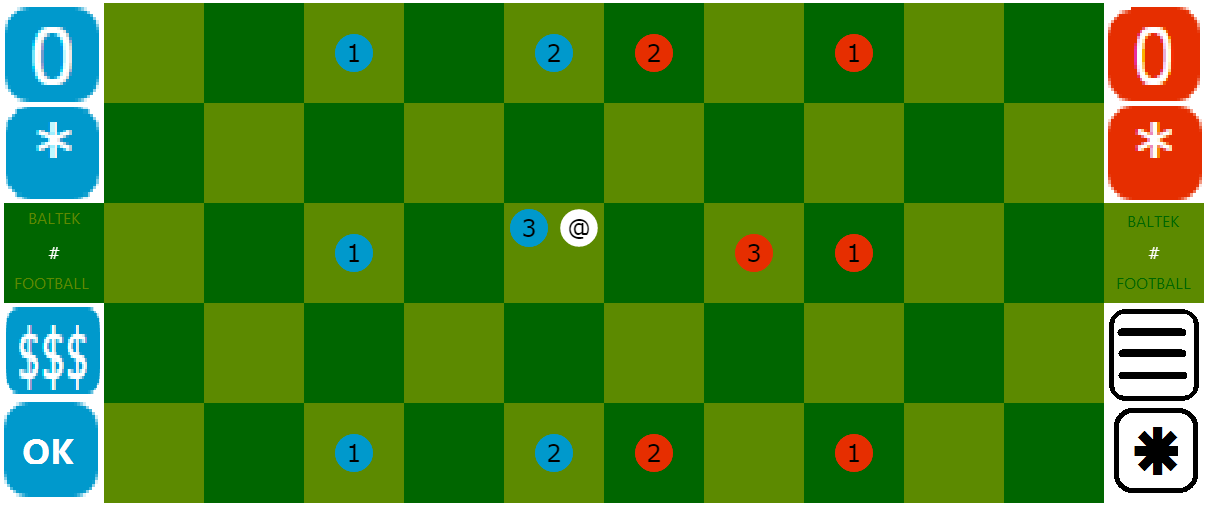
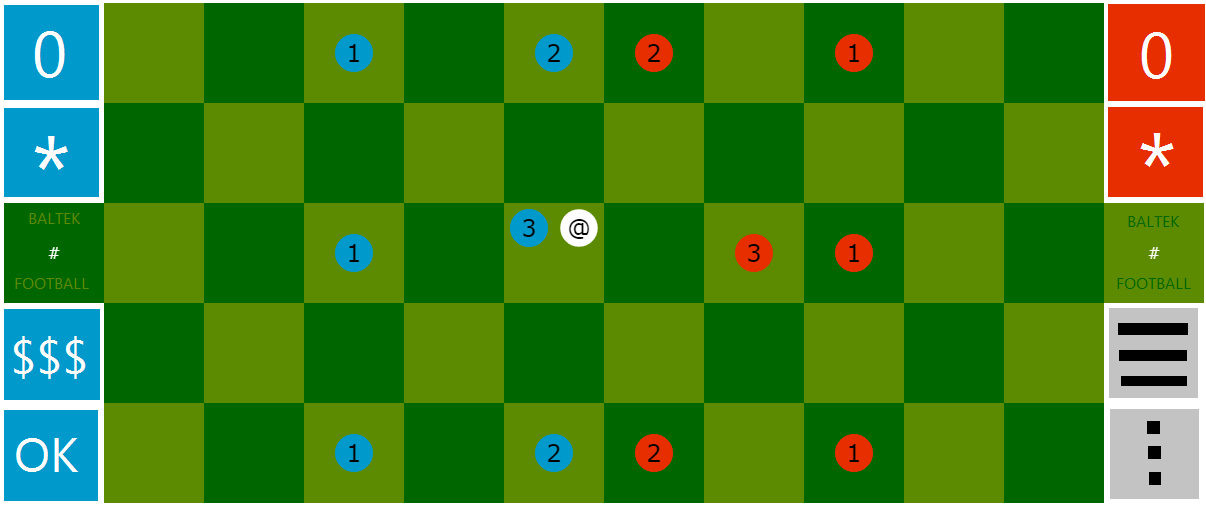
Design for smartphone; start English transltation

diff --git a/lang/en/Baltek-about-en.html b/lang/en/Baltek-about-en.html
@@ -1,51 +1,59 @@
 <!DOCTYPE html>
 <html lang="en">
-	<head>
-	    <meta charset="UTF-8">
-		<title>About Baltek</title>
-	</head>
 
-	<meta name="viewport" content="width=device-width, initial-scale=1">
-	<link rel="stylesheet" href="../../css/w3.css">
-	<link rel="stylesheet" href="../../css/baltek.css">
-	<body>
+    <head>
+        <meta charset="UTF-8">
+        <title>About BALTEK</title>
+    </head>
 
-<h1>Baltek, tactical soccer game</h1>
+    <meta name="viewport" content="width=device-width, initial-scale=1">
+    <link rel="stylesheet" href="../../css/w3.css">
+    <link rel="stylesheet" href="../../css/baltek.css">
 
-<p>"Baltek" is a soccer strategy game, turn based, obeying the following principles:</p>
+    <body>
 
-    <ul>
-        <li>Board game with a very few rules and equipment.</li>
+        <h1>BALTEK</h1>
+            <p>BALTEK is a turn-based football game.</p>
 
-        <li>No hazard involved in the turn.</li>
+        <h1>Configuration</h1>
 
-        <li>Multiple actions per turn.</li>
+            <ul>
+                <li>Version of the rules : 1.1</li>
+                <li>Version of the application HTML/Javascript : 0.0</li>
+            </ul>
 
-        <li>The ball moves faster than footballers.</li>
+        <h1>Copyright</h1>
 
-        <li>Coordination of players is essential.</li>
-    </ul>
+            <p><a href="http://creativecommons.org/licenses/by-sa/3.0/">
+              <img border=0 width=132 height=47 src="../../pictures/CC-BY-SA.gif" /></a></p>
 
-<p>The name of the game is inspired by the sounds of "ball" (BAL) and "tactical" (TK-TK).</p>
+            <p>This creation by Lucas Borboleta (
+            <a href="http://lucas.borboleta.blog.free.fr/">http://lucas.borboleta.blog.free.fr</a>)
+            - the rules document and the HTML / Javascript application - is made available under
+			the terms of the Creative Commons Attribution-ShareAlike 3.0 Unported License (<a
+            href="http://creativecommons.org/licenses/by-sa/3.0/">http://creativecommons.org/licenses/by-sa/3.0/</a>).</p>
 
 
-<h1>Configuration</h1>
+    <h1>Credits</h1>
 
-<ul>
-    <li>Version of rules: 1.0 (french document)</li>
-    <li>Version of HTML/Javascript application: 0.0</li>
-</ul>
+        <h2><a href="http://github.com/necolas/normalize.css/" target="_blank">normalize.css</a></h2>
+            <p>Copyright Nicolas Gallagher and Jonathan Neal.</p>
+            <p>MIT License.</p>
 
-<h1>Copyright</h1>
+        <h2><a href="http://javascriptissexy.com/" target="_blank">JavaScript.isSexy</a></h2>
+            <p>Copyright Richard.</p>
+            <p>No license found.</p>
 
-<p><a href="http://creativecommons.org/licenses/by-sa/3.0/">
-  <img border=0 width=132 height=47 src="../../pictures/CC-BY-SA.gif"></a>
-</p>
+            <p>JavaScript.isSexy is a blog on modern JavaScript and modern web application development.</p>
 
-<p>This work by Lucas Borboleta (
-<a href="http://lucas.borboleta.blog.free.fr/">http://lucas.borboleta.blog.free.fr</a>)
-– the rules document and the HTML/Javascript application – is licensed under
-a Creative Commons Attribution-ShareAlike 3.0 Unported License (<a
-href="http://creativecommons.org/licenses/by-sa/3.0/">http://creativecommons.org/licenses/by-sa/3.0/</a>).</p>
+            <p>Post of march. 19 2013:
+                <a href="http://javascriptissexy.com/oop-in-javascript-what-you-need-to-know/" target="_blank">
+                    OOP In JavaScript: What You NEED to Know</a>
+                    <em>(Object Oriented JavaScript: Only Two Techniques Matter)</em>.</p>
+
+            <h2><a href="http://www.w3schools.com/w3css/" target="_blank">w3.css</a></h2>
+                <p>4.04 Apr 2017 by Jan Egil and Borge Refsnes.</p>
+                <p>w3.css is free to use. No license is necessary.</p>
+
     </body>
 </html>

diff --git a/lang/en/Baltek-help-en.html b/lang/en/Baltek-help-en.html
@@ -1,15 +1,61 @@
 <!DOCTYPE html>
 <html lang="en">
-	<head>
-	    <meta charset="UTF-8">
-		<title>Baltek Help</title>
-	</head>
 
-	<meta name="viewport" content="width=device-width, initial-scale=1">
-	<link rel="stylesheet" href="../../css/w3.css">
-	<link rel="stylesheet" href="../../css/baltek.css">
-	<body>
-        <h1>Baltek Help</h1>
-        <p>TODO: to be written.</p>
-	</body>
+    <head>
+        <meta charset="UTF-8">
+        <title>BALTEK help</title>
+    </head>
+
+    <meta name="viewport" content="width=device-width, initial-scale=1">
+    <link rel="stylesheet" href="../../css/w3.css">
+    <link rel="stylesheet" href="../../css/baltek.css">
+
+    <body>
+
+        <h1>Interface</h1>
+            <p>Hereafter are a few breve explanations on how to play moves:</p>
+                <ul>
+                    <li><img src="../../pictures/scores-and-bonuses.png" />
+						display the scores and the availibility of the sprint bonuses
+                        for the two players.</li>
+
+                    <li><img src="../../pictures/credits.png" />
+                        displays the credits of the active player.</li>
+
+                    <li><img src="../../pictures/confirm-and-cancel-buttons.png" />
+                        confirms or cancels/reinitializes the turn of the active player.</li>
+
+                    <li><img src="../../pictures/sprint-button.png" />
+                        selects the sprint bonus.</li>
+
+                    <li>Unselect the selected footballer/ball prior
+                        to go on for a new selection.</li>
+                </ul>
+
+
+        <h1>Playing modes</h1>
+
+            <p>Hereafter are the playing modes:</p>
+                <ul>
+                    <li>The two local players share the same Web browser.</li>
+                    <li>Each of the two remote players uses his/her own Web browser.</li>
+                    <li>The human player plays against an artifitial intelligence  (AI).</li>
+                    <li>Two AI play against each other.</li>
+                </ul>
+
+            <p>Only the mode <q>two local players</q> is implemented
+                even if the bouton <q>New game</q> is coming together with the selector <q>Human/AI ...</q>.</p>
+
+
+        <h1>Rules</h1>
+            <p>Access the rules via the button <q>Rules</q>.</p>
+
+
+        <h1>Portability</h1>
+            <p>BALTEK is played within a Web browser, and so is relatively portable.
+               However, its current ergonomy requires a big enough screen and a mouse.</p>
+
+            <p>The adaptation of BALTEK to smartphone is foreseen in a next phase.</p>
+
+    </body>
 </html>

diff --git a/lang/fr/Baltek-rules-fr.html b/lang/fr/Baltek-rules-fr.html
@@ -2,7 +2,7 @@
 <html lang="fr">
 	<head>
 	    <meta charset="UTF-8">
-		<title>Règles de Baltek</title>
+		<title>Règles de BALTEK</title>
 	</head>
 
 	<meta name="viewport" content="width=device-width, initial-scale=1">
@@ -24,7 +24,7 @@
 
 		<h1 id="introduction">Introduction</h1>
 
-		<p>Baltek est un jeu de réflexion, en tour par tour, inspiré du football et conçu
+		<p>BALTEK est un jeu de réflexion, en tour par tour, inspiré du football et conçu
 			d'après les principes suivants :</p>
 
 		    <ul>
@@ -46,7 +46,7 @@
 
 		<h1 id="revisions">Révisions</h1>
 
-			<p>Ce document est la version 1.1 des règles de Baltek en français.</p>
+			<p>Ce document est la version 1.1 des règles de BALTEK en français.</p>
 			<p>La table ci-dessous résume les motivations de chaque version.</p>
 
 			<table class="w3-table-all">
@@ -100,7 +100,7 @@
 
 		<h1 id="objective">Objectif du jeu</h1>
 			<ul>
-				<li>Baltek se joue à deux joueurs.</li>
+				<li>BALTEK se joue à deux joueurs.</li>
 				<li>Chaque joueur dirige une équipe de 6 footballeurs.</li>
 				<li>Les joueurs décident de l’attribution des équipes.</li>
 
@@ -312,7 +312,7 @@ e1e2 d5e4 f5g4  / f5e4 g1f1 i1h2
 				<p>Optionellement, des précisions sont apportées comme dans l'exemple suivant.</p>
 
 <pre class="w3-code">
-#! baltek 1.1
+#! BALTEK 1.1
 #@ bernard@bois.fr robert@riviere.fr
 #: 2014-12-24 11:09:30
 @d3  f3g3 d1e1  / h3g3 g5f5 i3h3
@@ -334,8 +334,8 @@ e1e2 d5e4 f5g4  / f5e4 g1f1 i1h2
 							<ul>
 								<li><q><code class="w3-codespan"># </code></q> annonce un commentaire libre.</li>
 
-								<li><q><code class="w3-codespan">#! baltek i.j</code></q> annonce
-									la version <q>i.j</q> du format de notation Baltek ;
+								<li><q><code class="w3-codespan">#! BALTEK i.j</code></q> annonce
+									la version <q>i.j</q> du format de notation BALTEK ;
 									utilisable une seule fois, en première ligne.</li>
 
 								<li><q><code class="w3-codespan">#@</code></q> annonce
@@ -410,9 +410,9 @@ e1e2 d5e4 f5g4  / f5e4 g1f1 i1h2
 
 			<h1 id="tanks">Remerciements</h1>
 				<p>Je remercie mes fils <q>A</q> et <q>C</q> pour leurs patiences et commentaires
-					lors des parties d'essais de Baltek et autres tentatives de jeu de football.
+					lors des parties d'essais de BALTEK et autres tentatives de jeu de football.
 					Ma compagne <q>P</q> avec sa durée de réflexion de joueuse d'échecs a suscité
-					la création du <q>bonus de sprint</q> afin de dynamiser les parties de Baltek ;
+					la création du <q>bonus de sprint</q> afin de dynamiser les parties de BALTEK ;
 				    je la remercie.
 				</p>
 

diff --git a/lang/fr/Baltek-help-fr.html b/lang/fr/Baltek-help-fr.html
@@ -3,7 +3,7 @@
 
     <head>
         <meta charset="UTF-8">
-        <title>Aide sur Baltek</title>
+        <title>Aide sur BALTEK</title>
     </head>
 
     <meta name="viewport" content="width=device-width, initial-scale=1">
@@ -37,7 +37,7 @@
 
             <p>Voici les modes de jeu :</p>
                 <ul>
-                    <li>Les deux joueurs proches partagent le même ordinateur.</li>
+                    <li>Les deux joueurs locaux partagent le même navigateur Web.</li>
                     <li>Les deux joueurs distants utilisent chacun un navigateur Web.</li>
                     <li>Un joueur joue contre une intelligence artificielle (IA).</li>
                     <li>Deux IA jouent l'une contre l'autre.</li>
@@ -52,12 +52,10 @@
 
 
         <h1>Portabilité</h1>
-            <p>Baltek se joue dans un navigateur Web, et est donc relativement portable.
+            <p>BALTEK se joue dans un navigateur Web, et est donc relativement portable.
                Cependant, son ergonomie actuelle requiert un écran assez grand et une souris.</p>
 
-            <p>Les bonnes idées et mêmes les développeurs sont bienvenus pour
-               adapter Baltek aux smartphones de petites tailles.</p>
-
+            <p>L'adaptation de BALTEK au smartphone est prévue dans un deuxième temps.</p>
 
     </body>
 </html>

diff --git a/lang/fr/Baltek-about-fr.html b/lang/fr/Baltek-about-fr.html
@@ -3,7 +3,7 @@
 
     <head>
         <meta charset="UTF-8">
-        <title>A propos de Baltek</title>
+        <title>A propos de BALTEK</title>
     </head>
 
     <meta name="viewport" content="width=device-width, initial-scale=1">
@@ -12,8 +12,8 @@
 
     <body>
 
-        <h1>Baltek</h1>
-            <p>Baltek est un jeu de football, en tour par tour.</p>
+        <h1>BALTEK</h1>
+            <p>BALTEK est un jeu de football, en tour par tour.</p>
 
         <h1>Configuration</h1>
 

diff --git a/doc/Design-for-Smartphone.md b/doc/Design-for-Smartphone.md
@@ -1,0 +1,33 @@
+# Introduction
+
+This document collects ideas for adaptation of BALTEK to smartphone and more generally to tactile screen.
+
+# Screen
+
+Hereafter is a possible design for the screen.
+
+![screen-design-for-smartphone](./screen-design-for-smartphone.png)
+
+# Boxes as buttons or counters
+
+* Score and bonus counters, as well as action buttons are using the unused boxes of the football Field. This way the screen surface is optimally used.
+* In order to keep some decoupling between the Rules-Engine and the Presenter, the Rules-Engine ensures to provide the coordinates of 4 free boxes on the left, and 4 free boxes on the right. 
+* The name "BALTEK" is discretely displayed in the 2 "#" Field boxes.
+* The player only needs to touch a box, without trying to precisely select either the Ball of a Footballer. Indeed, most of the time, in a box, there just one selectable Footballer. When the player can select either the Ball or a Footballer :
+  * the first touch selects the Ball;
+  * the second touch selects the Footballer;
+  * the last touch unselect the Footballer.
+* The "$$$" box has two roles : 
+  * display the remaining credits;
+  * cancel the moves of the active turn.
+* The "*" box has two roles :
+  * display the remaining bonus;
+  * select the bonus ; the selected status is rendered by the yellow colour, also used for the selected Field box.
+* The "OK" box acts as a button used for confirm the active turn.
+* The "$$$" and the "OK" boxes are displayed on the side of the active player, and using the colour of the active player.
+* The two remaining boxes, in grey colour, "///" and "..." are respectively used for a general menu (IA levels or remote player request; help; rules; about; language settings; display coordinates) and for a few quick actions (e.g. new game).  
+* The grey boxes are display on the side of the non-active player.
+
+# BALTEK as an Android App
+
+After browsing forum, it seems rather easy to transform an HTML5/Javascript game into a standard Android app. A few tools can automate the required packaging.
